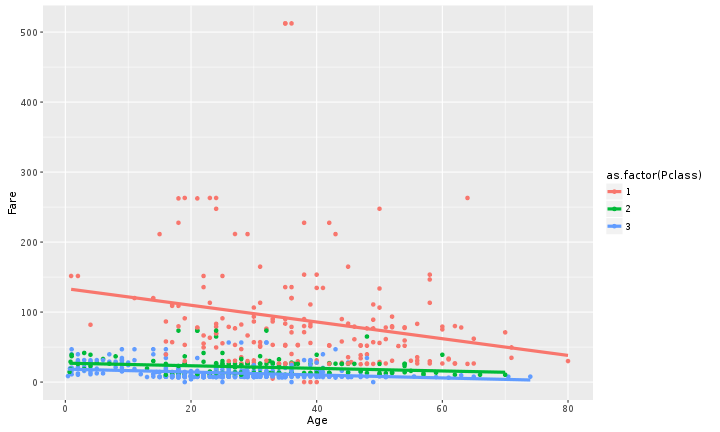
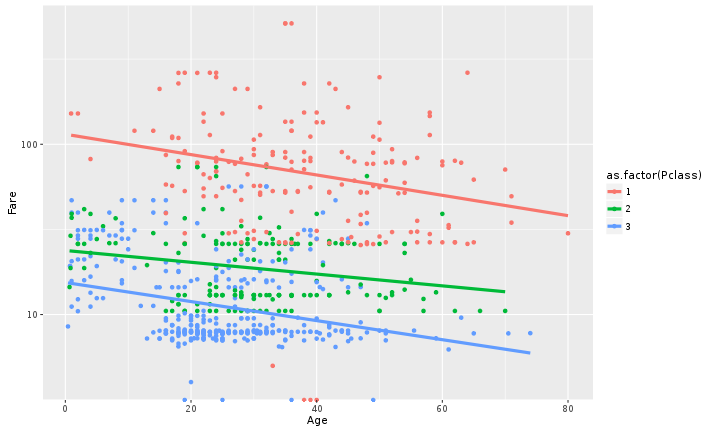
update plotting section

diff --git a/content/07-plot-ggplot2.md b/content/07-plot-ggplot2.md
@@ -106,13 +106,15 @@ ggplot(titanic,aes(x = Age, y = Fare)) +
 
 <!--sec data-title="Challenge 1" data-id="ch1" data-show=true data-collapse=false ces-->
 
-Customize the basic setting (size = 2, alpha = 0.2, or col = “red”) in the aesthetics (`aes()`) argument and have a look at what happens. Change `geom_point()` to `geom_jitter()`. Can you explain the difference?
+Modify the example so that the figure visualises how fare changes across passenger class:
 
 
 ~~~sourcecode
-ggplot(titanic, aes(x = Age, y = Fare, alpha = 0.2))+
-  geom_jitter()
+ggplot(titanic,aes(x = Age, y = Fare)) +
+  geom_point()
 ~~~
+
+Hint: the titanic dataset has a column called "Pclass", which should appear on the x-axis.
 
 <!--endsec-->
 
@@ -120,11 +122,12 @@ ggplot(titanic, aes(x = Age, y = Fare, alpha = 0.2))+
 
 In the previous examples and challenge we've used the `aes` function to tell the scatterplot **geom** about the **x** and **y** locations of each point.
 Another *aesthetic* property we can modify is the point *color*. Modify the
-code from the previous challenge to **color** the points by the "Pclass"
+code from the previous challenge to **color** the points by the "Survived"
 column.
 
-**HINT**: transform the Pclass column to a factor using the `as.factor()` function.
+**HINT**: transform the Survived column to a factor using the `as.factor()` function.
 
+What trends do you see in the data? Are they what you expected?
 <!--endsec-->
 
 <br>
@@ -209,12 +212,12 @@ ggplot(titanic, aes(x = Age, y = Fare, col = as.factor(Pclass)))+
 <img src="images/lm-fit-1.png" title="plot of chunk lm-fit" alt="plot of chunk lm-fit" style="display: block; margin: auto;" />
 
 We can make the line thicker by *setting* the **size** and **se** aesthetic in the
-`geom_smooth` layer:
+`geom_smooth` layer. We can change the scale of units on the y axis using the scale functions. These control the mapping between the data values and visual values of an aesthetic.
 
 
 ~~~sourcecode
 ggplot(titanic, aes(x = Age, y = Fare, col = as.factor(Pclass)))+
-  geom_point() + geom_smooth(method = "lm", size =1.5, se = F)
+  geom_point() + geom_smooth(method = "lm", size =1.5, se = F) + scale_y_log10()
 ~~~
 
 <img src="images/lm-fit2-1.png" title="plot of chunk lm-fit2" alt="plot of chunk lm-fit2" style="display: block; margin: auto;" />
@@ -237,12 +240,20 @@ by adding a layer of **facet** panels:
 
 
 ~~~sourcecode
-ggplot(titanic, aes(x = Age, y = Fare, col = as.factor(Pclass)))+
-  geom_point() + geom_smooth(method = "lm", size =1.5, se = F) +
-  facet_grid(.~Pclass)
+ggplot(titanic, aes(x = Sex, fill=as.factor(Survived))) + 
+  geom_bar(position = 'dodge') 
 ~~~
 
-<img src="images/facet-1.png" title="plot of chunk facet" alt="plot of chunk facet" style="display: block; margin: auto;" />
+<img src="images/unnamed-chunk-5-1.png" title="plot of chunk unnamed-chunk-5" alt="plot of chunk unnamed-chunk-5" style="display: block; margin: auto;" />
+
+
+~~~sourcecode
+ggplot(titanic, aes(x = Sex, fill=as.factor(Survived))) + 
+  geom_bar(position = 'dodge') + 
+  facet_grid(~ Pclass)
+~~~
+
+<img src="images/unnamed-chunk-6-1.png" title="plot of chunk unnamed-chunk-6" alt="plot of chunk unnamed-chunk-6" style="display: block; margin: auto;" />
 
 The `facet_grid` layer took a "formula" as its argument, denoted by the tilde
 (~). This tells R to draw a panel for each unique value in the Pclass column
@@ -264,30 +275,17 @@ for changing the axis labels. To change the legend title, we need to use the
 
 
 ~~~sourcecode
-ggplot(titanic, aes(x = Age, y = Fare, col = as.factor(Pclass)))+
-  geom_point() + geom_smooth(method = "lm", size =1.5, se = F) +
-  facet_grid(.~Pclass)+
-  scale_colour_discrete(name = "Passenger Classes", labels = c("First Class", "Second Class", "Third Class"))
+ggplot(titanic, aes(x = Sex, fill=as.factor(Survived))) + 
+  geom_bar(position = 'dodge') + 
+  facet_grid(~ Pclass, labeller = labeller(Pclass = c(`1` = "first class", 
+                                                      `2` = "second class", 
+                                                      `3` = "third class"))) +
+  xlab("gender") + ggtitle("Figure 1") +
+  scale_fill_discrete(name="survival", label=c("died", "survived")) + 
+  theme_bw() + theme(panel.grid = element_blank())
 ~~~
 
 <img src="images/theme-1.png" title="plot of chunk theme" alt="plot of chunk theme" style="display: block; margin: auto;" />
-
-Next, we need to set the background as blank. Actually, we can save all `theme` settings in one variable.
-
-
-~~~sourcecode
-theme1 <- theme(panel.background = element_blank(),
-               legend.background = element_blank(),
-               panel.grid = element_blank())
-
-ggplot(titanic, aes(x = Age, y = Fare, col = as.factor(Pclass)))+
-  geom_point() + geom_smooth(method = "lm", size =1.5, se = F) +
-  facet_grid(.~Pclass)+ xlab("Passsengers Age") +ylab("Fare") + ggtitle("Figure 1")+
-  scale_colour_discrete(name = "Passengers Class", labels = c("First Class", "Second Class", "Third Class")) +
-  theme1
-~~~
-
-<img src="images/theme2-1.png" title="plot of chunk theme2" alt="plot of chunk theme2" style="display: block; margin: auto;" />
 
 
 This is just a taste of what you can do with `ggplot2`. RStudio provides a
